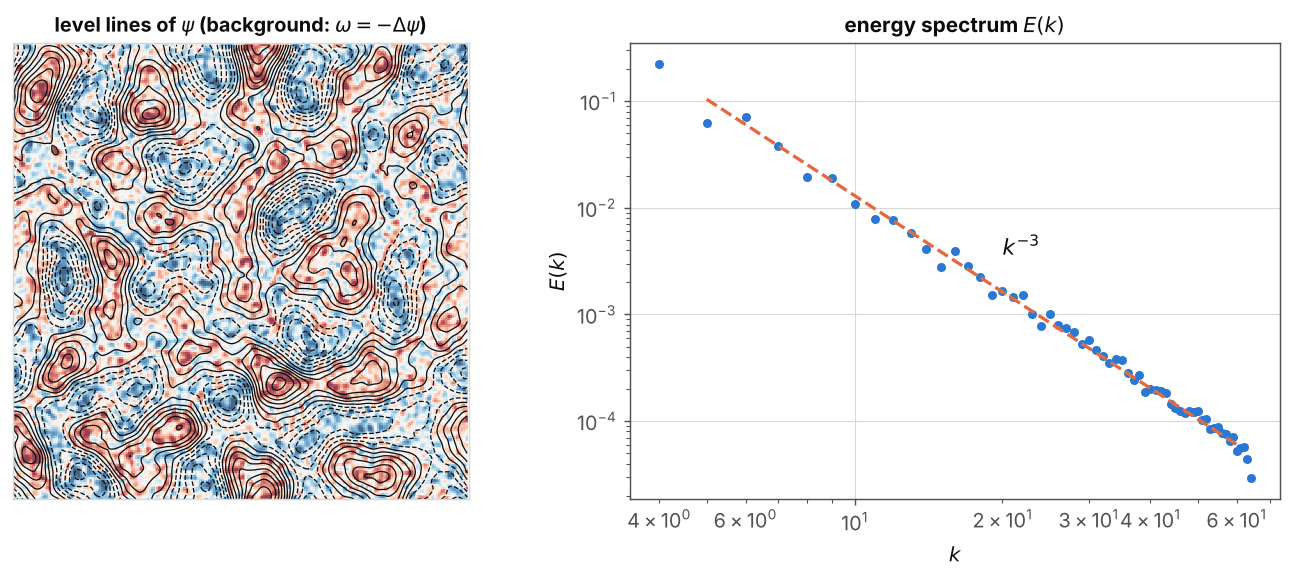
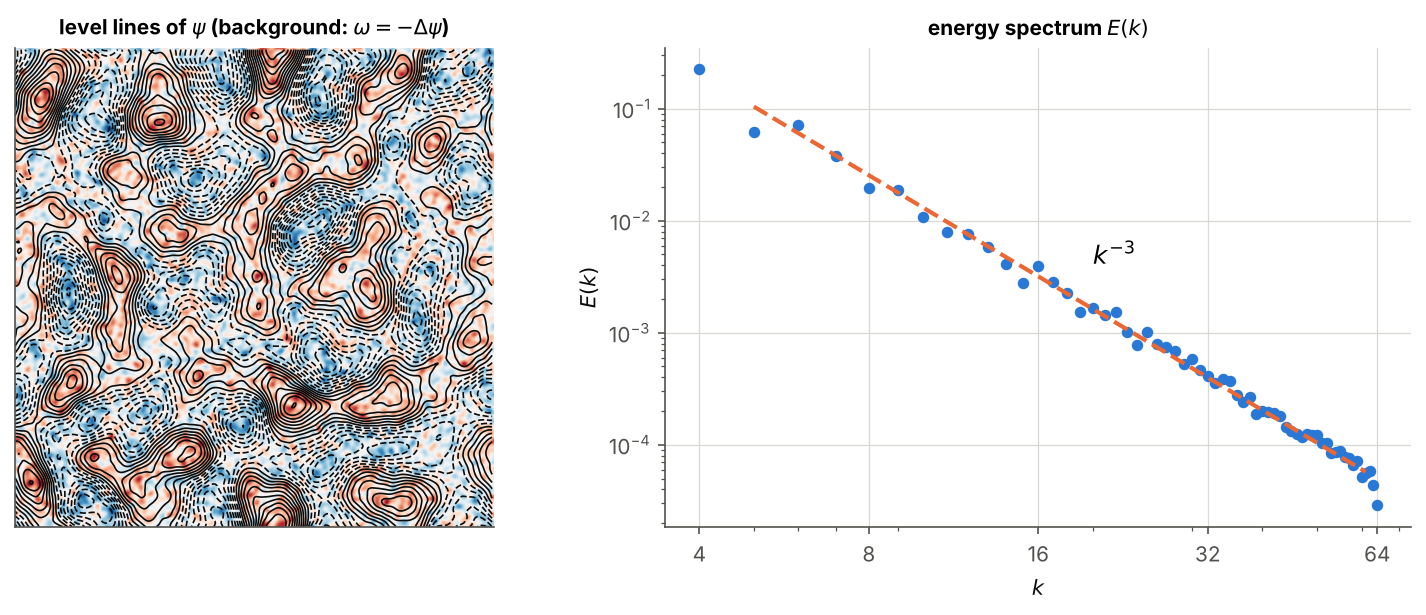
P1: figure script figures_p1.py, figures regenerated
The five figures had no generator. figures_p1.py reuses the code blocks of
the page (Fourier derivative errors, Gibbs maximum 1.1790 and the k^-3
stream function reproduce the printed outputs) and redraws the analytic
fields.

Claude-Session: https://claude.ai/code/session_019DLE2UupA8nNvHWE1xMPtD

Changed region(s): [[0.0, 0.031, 0.3712, 0.869], [0.4331, 0.031, 1.0, 0.9621], [0.4022, 0.4345, 0.4331, 0.4966]]

diff --git a/site/prep/p1-vector-calculus/figures_p1.py b/site/prep/p1-vector-calculus/figures_p1.py
@@ -1,0 +1,236 @@
+"""Static figures of module p1 (vector calculus, Fourier analysis, Helmholtz–Hodge decomposition).
+
+Usage: python3 figures_p1.py [out_dir]     (default: the folder of this script)
+The Fourier and stream-function figures reuse the code blocks of the page (sections 5 and 6); the
+numbers quoted in the captions are printed. Runs on CPU in a few seconds.
+"""
+import sys
+from pathlib import Path
+
+import numpy as np
+
+sys.path.insert(0, str(Path(__file__).resolve().parents[2] / "assets"))
+import figstyle as fs  # noqa: E402
+import matplotlib.pyplot as plt  # noqa: E402
+from matplotlib import patches  # noqa: E402
+
+fs.use(10, **{"axes.titleweight": "bold"})
+HERE = Path(__file__).resolve().parent
+
+
+def _square(a, lim):
+    a.set_xlim(-lim, lim); a.set_ylim(-lim, lim); a.set_aspect("equal")
+    a.set_xticks([]); a.set_yticks([]); a.grid(False)
+    for sp in a.spines.values():
+        sp.set_visible(True); sp.set_color("#d4d4d4")
+
+
+# ---------------------------------------------------------------------------------------------
+def fig_fields(out):
+    fig, ax = plt.subplots(1, 4, figsize=(13, 3.6))
+    x = np.linspace(-1, 1, 41)
+    X, Y = np.meshgrid(x, x)
+    fields = [("Source", r"$\nabla\cdot\mathbf{u} = 2,\ \ \omega = 0$", X, Y),
+              ("Solid-body rotation", r"$\nabla\cdot\mathbf{u} = 0,\ \ \omega = 2$", -Y, X),
+              ("Shear", r"$\nabla\cdot\mathbf{u} = 0,\ \ \omega = -1$", Y, 0 * X)]
+    for a, (name, sub, U, V) in zip(ax, fields):
+        a.streamplot(X, Y, U, V, color=fs.C1, density=1.3, linewidth=1.1, arrowsize=0.9)
+        a.set_title(f"{name}\n{sub}"); _square(a, 1)
+    # cellular flow on [0, 2 pi]², vorticity background
+    x = np.linspace(0, 2 * np.pi, 81)
+    X, Y = np.meshgrid(x, x)
+    U, V = np.sin(X) * np.cos(Y), -np.cos(X) * np.sin(Y)
+    a = ax[3]
+    a.imshow(2 * np.sin(X) * np.sin(Y), extent=(0, 2 * np.pi, 0, 2 * np.pi), origin="lower", cmap=fs.DIVERGING,
+             vmin=-4.5, vmax=4.5, interpolation="bilinear")
+    a.streamplot(X, Y, U, V, color=fs.C1, density=1.2, linewidth=1.1, arrowsize=0.9)
+    a.set_title("Cellular flow\n" + r"$\nabla\cdot\mathbf{u} = 0,\ \ \omega = 2\sin x\,\sin y$")
+    a.set_xlim(0, 2 * np.pi); a.set_ylim(0, 2 * np.pi); a.set_aspect("equal")
+    a.set_xticks([]); a.set_yticks([]); a.grid(False)
+    for sp in a.spines.values():
+        sp.set_visible(True); sp.set_color("#d4d4d4")
+    fig.tight_layout()
+    fs.save(fig, out / "fig-fields.png")
+
+
+# ---------------------------------------------------------------------------------------------
+def fig_monopole_dipole(out):
+    fig, ax = plt.subplots(1, 2, figsize=(8.5, 4.3))
+    a = ax[0]
+    for th in np.arange(16) * np.pi / 8:                     # radial lines of x/|x|³
+        c, s = np.cos(th), np.sin(th)
+        a.plot([0, 3 * c], [0, 3 * s], color=fs.C1, lw=1.2)
+        a.annotate("", xy=(1.55 * c, 1.55 * s), xytext=(1.45 * c, 1.45 * s),
+                   arrowprops=dict(arrowstyle="-|>", color=fs.C1, lw=1.2))
+    a.plot(0, 0, "o", color=fs.INK, ms=7)
+    a.set_title("Monopole (point charge)")
+    # dipole m along z, cross-section: field lines r = c sin²(theta), theta measured from the z axis
+    b = ax[1]
+    th = np.linspace(1e-3, np.pi - 1e-3, 400)
+    for cst in (0.35, 0.6, 0.9, 1.4, 2.2, 3.5):
+        r = cst * np.sin(th) ** 2
+        for side in (1, -1):
+            xs, zs = side * r * np.sin(th), r * np.cos(th)
+            b.plot(xs, zs, color=fs.C1, lw=1.2)
+            k = len(th) // 2                                  # equator: field points towards -z
+            b.annotate("", xy=(xs[k + 3], zs[k + 3]), xytext=(xs[k], zs[k]),
+                       arrowprops=dict(arrowstyle="-|>", color=fs.C1, lw=1.2))
+    b.annotate("", xy=(0, 0.2), xytext=(0, -0.15), arrowprops=dict(arrowstyle="-|>", color=fs.INK, lw=2.5))
+    b.set_title("Magnetic dipole")
+    for a_, label0 in ((a, r"flux $= 4\pi$"), (b, r"flux $= 0$")):
+        a_.add_patch(patches.Circle((0, 0), 0.7, fill=False, ls="--", lw=1.8, color=fs.C2))
+        a_.add_patch(patches.Circle((1.45, 1.4), 0.45, fill=False, ls="--", lw=1.8, color=fs.C2))
+        a_.text(0, -0.85, label0, ha="center", va="top", bbox=dict(fc="white", ec="none", pad=1))
+        a_.text(1.45, 0.82, r"flux $= 0$", ha="center", va="top", bbox=dict(fc="white", ec="none", pad=1))
+        _square(a_, 2)
+    fig.tight_layout()
+    fs.save(fig, out / "fig-monopole-dipole.png")
+
+
+# ---------------------------------------------------------------------------------------------
+def fig_fourier(out):
+    def wavenumbers(N, L=2 * np.pi):
+        return 2 * np.pi * np.fft.fftfreq(N, d=L / N)
+
+    def d_spectral(f):
+        k = wavenumbers(f.size)
+        if f.size % 2 == 0:
+            k[f.size // 2] = 0.0
+        return np.real(np.fft.ifft(1j * k * np.fft.fft(f)))
+
+    def d_fd2(f):
+        h = 2 * np.pi / f.size
+        return (np.roll(f, -1) - np.roll(f, 1)) / (2 * h)
+
+    fig, ax = plt.subplots(1, 3, figsize=(13, 3.6))
+    x = np.linspace(0, 2 * np.pi, 1000)
+    xg = 2 * np.pi * np.arange(8) / 8
+    ax[0].plot(x, np.cos(10 * x), color=fs.C1, lw=1.4, label=r"$\cos(10x)$")
+    ax[0].plot(x, np.cos(2 * x), "--", color=fs.C2, label=r"$\cos(2x)$")
+    ax[0].plot(xg, np.cos(2 * xg), "o", color=fs.INK, ms=5, label="grid points", zorder=5)
+    ax[0].set_xticks([0, np.pi, 2 * np.pi], ["0", "π", "2π"]); ax[0].set_ylim(-1.6, 1.25)
+    ax[0].set_ylim(-1.75, 1.25)
+    ax[0].legend(loc="lower center", fontsize=8.5, frameon=True, ncol=3, columnspacing=0.8, handlelength=1.5)
+    ax[0].set_title(r"Aliasing on $N = 8$ points")
+    xx = np.linspace(-0.6, 0.9, 3000)
+    for n_max, col in ((11, fs.C2), (101, fs.C1)):
+        S = sum(4 / np.pi * np.sin(n * xx) / n for n in range(1, n_max + 1, 2))
+        ax[1].plot(xx, S, color=col, lw=1.4, label=rf"$n_\max$ = {n_max}")
+    xm = np.linspace(1e-4, np.pi / 2, 200001)
+    smax = (sum(4 / np.pi * np.sin(n * xm) / n for n in range(1, 102, 2))).max()
+    print(f"fourier: max of the partial sum (n_max = 101) = {smax:.4f}")
+    ax[1].plot(xx, np.sign(xx), ":", color=fs.INK2, lw=1)
+    ax[1].axhline(smax, color=fs.C3, ls="--", lw=1.2); ax[1].text(0.85, smax + 0.03, f"{smax:.3f}", ha="right")
+    ax[1].legend(loc="lower right", fontsize=9, frameon=True); ax[1].set_title("Gibbs phenomenon")
+    Ns = np.array([4, 6, 8, 12, 16, 24, 32, 48, 64, 96, 128, 256])
+    es, ed = [], []
+    for N in Ns:
+        xg = 2 * np.pi * np.arange(N) / N
+        f, fp = np.exp(np.sin(xg)), np.cos(xg) * np.exp(np.sin(xg))
+        es.append(np.abs(d_spectral(f) - fp).max()); ed.append(np.abs(d_fd2(f) - fp).max())
+    for N, a_, b_ in zip(Ns, es, ed):
+        if N in (8, 16, 32, 64, 128):
+            print(f"fourier: N = {N:3d}  spectral {a_:.1e}  FD2 {b_:.1e}")
+    ax[2].loglog(Ns, es, "o-", color=fs.C1, label="spectral")
+    ax[2].loglog(Ns, ed, "s-", color=fs.C2, label="finite differences (order 2)")
+    ax[2].loglog(Ns, ed[3] * (Ns / Ns[3]) ** -2.0, ":", color=fs.INK2, lw=1)
+    ax[2].text(150, ed[3] * (150 / Ns[3]) ** -2.0 * 3, r"$\propto N^{-2}$", color=fs.INK2)
+    ax[2].set_xlabel(r"number of points $N$"); ax[2].set_ylabel("max error")
+    ax[2].legend(loc="lower left", fontsize=9, frameon=True); ax[2].set_title(r"Error of the derivative of $e^{\sin x}$")
+    fig.tight_layout()
+    fs.save(fig, out / "fig-fourier.png")
+
+
+# ---------------------------------------------------------------------------------------------
+def fig_helmholtz(out):
+    """Smooth random field (Fourier modes |k| <= 4, seed 2) split with the Leray projection (6.2)."""
+    rng = np.random.default_rng(2)
+    N = 64
+    k1 = np.fft.fftfreq(N, 1.0 / N)
+    KX, KY = np.meshgrid(k1, k1, indexing="xy")
+    K2 = KX ** 2 + KY ** 2
+    filt = (K2 > 0) & (K2 <= 16)
+    uh = [np.fft.fft2(rng.normal(size=(N, N))) * filt for _ in range(2)]
+    K2s = np.where(K2 > 0, K2, 1)
+    div_h = 1j * (KX * uh[0] + KY * uh[1])
+    gh = [KX * (KX * uh[0] + KY * uh[1]) / K2s, KY * (KX * uh[0] + KY * uh[1]) / K2s]   # gradient part
+    wh = [uh[0] - gh[0], uh[1] - gh[1]]                                                  # P u
+    ph = -div_h / K2s                                                                    # grad p = g, i.e. -k² p^ = i k·u^
+    om_h = 1j * (KX * wh[1] - KY * wh[0])
+    R = lambda h: np.real(np.fft.ifft2(h))  # noqa: E731
+    u, g, w = [R(h) for h in uh], [R(h) for h in gh], [R(h) for h in wh]
+    print(f"helmholtz: max|div P u| = {np.abs(R(1j * (KX * wh[0] + KY * wh[1]))).max():.1e}, "
+          f"max|curl grad p| = {np.abs(R(1j * (KX * gh[1] - KY * gh[0]))).max():.1e}")
+    x = np.arange(N) * 2 * np.pi / N
+    X, Y = np.meshgrid(x, x, indexing="xy")
+    fig, ax = plt.subplots(1, 3, figsize=(13, 4.4))
+    panels = [(u, R(div_h), r"field $\mathbf{u}$ (background: $\nabla\cdot\mathbf{u}$)"),
+              (g, R(ph), r"gradient part $\nabla p$ (background: $p$)"),
+              (w, R(om_h), r"solenoidal part $\mathbb{P}\mathbf{u}$ (background: $\omega$)")]
+    for a, (vec, bg, title) in zip(ax, panels):
+        m = 1.6 * np.abs(bg).max()
+        a.imshow(bg, extent=(0, x[-1], 0, x[-1]), origin="lower", cmap=fs.DIVERGING, vmin=-m, vmax=m,
+                 interpolation="bilinear")
+        speed = np.hypot(*vec)
+        a.streamplot(X, Y, vec[0], vec[1], color=fs.INK, density=1.4, linewidth=2.2 * speed / speed.max(),
+                     arrowsize=0.8)
+        a.set_title(title); a.set_xlim(0, x[-1]); a.set_ylim(0, x[-1]); a.set_aspect("equal")
+        a.set_xticks([]); a.set_yticks([]); a.grid(False)
+    fig.tight_layout(w_pad=3)
+    for (left, right), sign in zip(zip(ax[:-1], ax[1:]), ("=", "+")):
+        p0, p1 = left.get_position(), right.get_position()
+        fig.text((p0.x1 + p1.x0) / 2, (p0.y0 + p0.y1) / 2, sign, fontsize=22, ha="center", va="center")
+    fs.save(fig, out / "fig-helmholtz.png")
+
+
+# ---------------------------------------------------------------------------------------------
+def fig_current(out):
+    """Code of the page (section 6): random stream function with E(k) ~ k^-3, seed 6."""
+    rng = np.random.default_rng(6)
+    N, L = 256, 2 * np.pi
+    kv = 2 * np.pi * np.fft.fftfreq(N, d=L / N)
+    k1 = kv.copy(); k1[N // 2] = 0.0
+    KX, KY = np.meshgrid(k1, k1, indexing="ij")
+    kn = np.sqrt(sum(k ** 2 for k in np.meshgrid(kv, kv, indexing="ij")))
+    F, Fi = np.fft.fft2, lambda a: np.real(np.fft.ifft2(a))
+    amp = np.zeros_like(kn)
+    band = (kn >= 4) & (kn <= 64)
+    amp[band] = np.sqrt(kn[band] ** -3 / (np.pi * kn[band] ** 3))
+    psi = Fi(amp * F(rng.normal(size=(N, N))))
+    psi_h = F(psi)
+    ux, uy = Fi(1j * KY * psi_h), Fi(-1j * KX * psi_h)
+    c = np.sqrt(np.mean(ux ** 2 + uy ** 2))
+    ux, uy, psi = ux / c, uy / c, psi / c
+    uh2 = (np.abs(F(ux)) ** 2 + np.abs(F(uy)) ** 2) / N ** 4
+    E = np.array([0.5 * uh2[(kn >= s - 0.5) & (kn < s + 0.5)].sum() for s in range(N)])
+    s = np.arange(8, 49)
+    print(f"current: slope of the spectrum between k = 8 and 48: {np.polyfit(np.log(s), np.log(E[s]), 1)[0]:.2f}")
+    omega = Fi((KX ** 2 + KY ** 2) * F(psi))
+    x = np.arange(N) * L / N
+    X, Y = np.meshgrid(x, x, indexing="ij")
+    fig, ax = plt.subplots(1, 2, figsize=(10, 4.2), gridspec_kw={"width_ratios": [1, 1.25]})
+    m = np.percentile(np.abs(omega), 99)
+    ax[0].imshow(omega.T, extent=(0, L, 0, L), origin="lower", cmap=fs.DIVERGING, vmin=-1.5 * m, vmax=1.5 * m,
+                 interpolation="bilinear")
+    lv = np.linspace(-np.abs(psi).max(), np.abs(psi).max(), 22)
+    ax[0].contour(X, Y, psi, levels=lv[lv > 0], colors=fs.INK, linewidths=0.8, linestyles="solid")
+    ax[0].contour(X, Y, psi, levels=lv[lv < 0], colors=fs.INK, linewidths=0.8, linestyles="dashed")
+    ax[0].set_aspect("equal"); ax[0].set_xticks([]); ax[0].set_yticks([]); ax[0].grid(False)
+    ax[0].set_title(r"level lines of $\psi$ (background: $\omega = -\Delta\psi$)")
+    k = np.arange(4, 65)
+    ax[1].loglog(k, E[k], "o", color=fs.C1, ms=4.5)
+    c3 = np.exp(np.mean(np.log(E[s]) + 3 * np.log(s)))          # least-squares amplitude of c k^-3 on k = 8..48
+    ax[1].loglog(k[1:-3], c3 * k[1:-3] ** -3.0, "--", color=fs.C2)
+    ax[1].text(20, c3 * 20.0 ** -3.0 * 2.5, r"$k^{-3}$", fontsize=12)
+    from matplotlib.ticker import FixedLocator, NullFormatter, ScalarFormatter
+    ax[1].xaxis.set_major_locator(FixedLocator([4, 8, 16, 32, 64])); ax[1].xaxis.set_major_formatter(ScalarFormatter())
+    ax[1].xaxis.set_minor_formatter(NullFormatter())
+    ax[1].set_xlabel(r"$k$"); ax[1].set_ylabel(r"$E(k)$"); ax[1].set_title(r"energy spectrum $E(k)$")
+    fig.tight_layout()
+    fs.save(fig, out / "fig-current.png")
+
+
+if __name__ == "__main__":
+    out = fs.out_dir(__file__, sys.argv)
+    for fn in (fig_fields, fig_monopole_dipole, fig_fourier, fig_helmholtz, fig_current):
+        fn(out)
